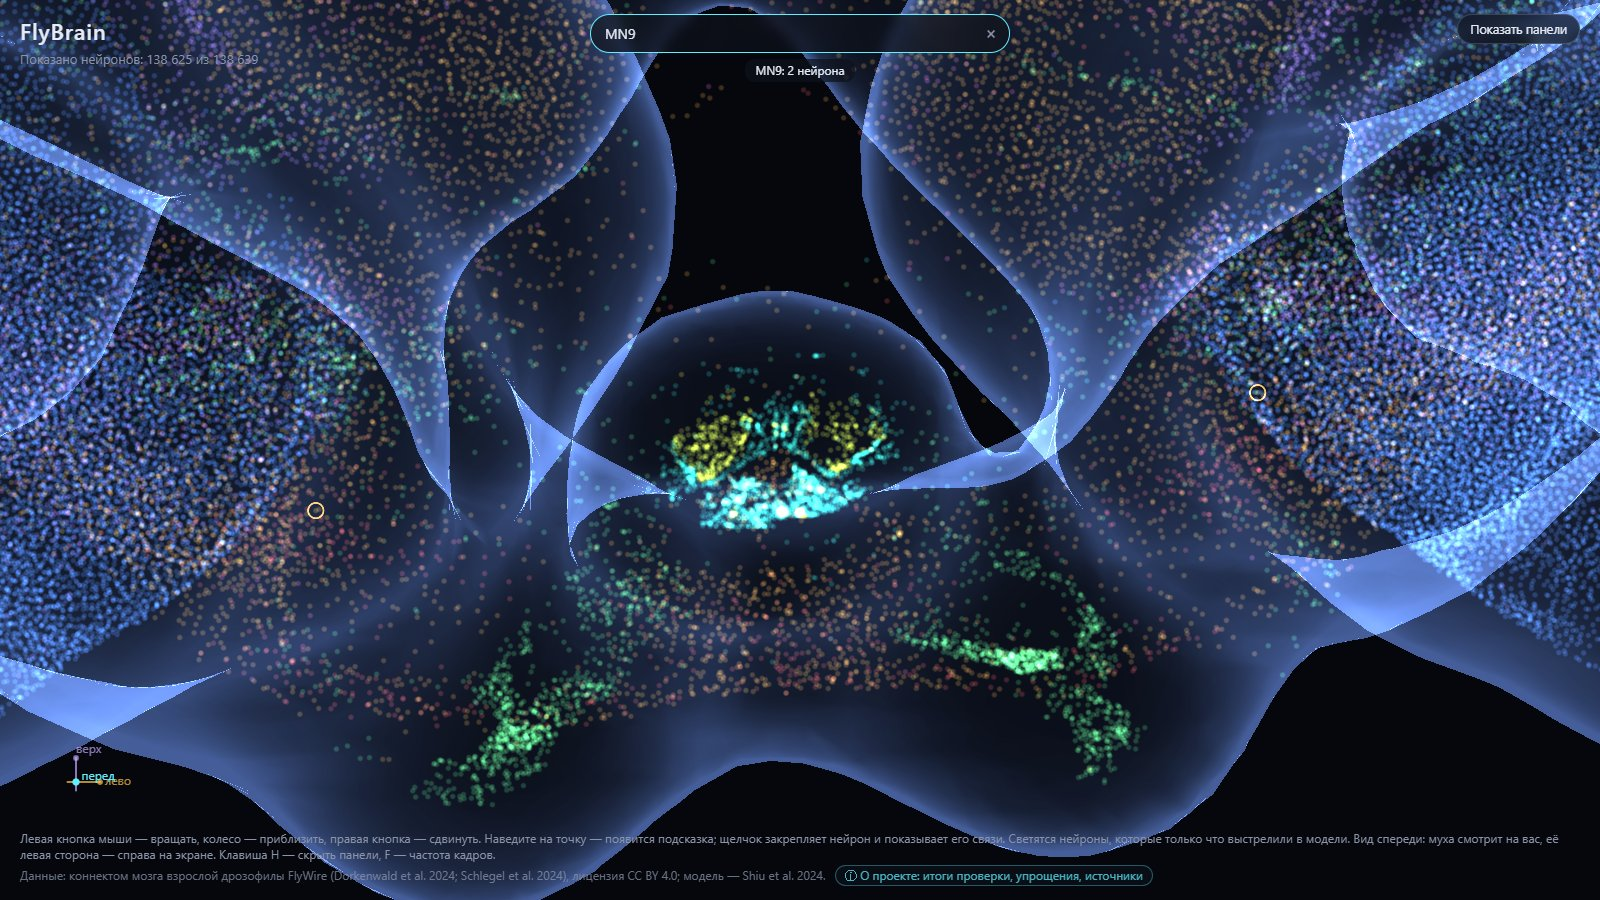
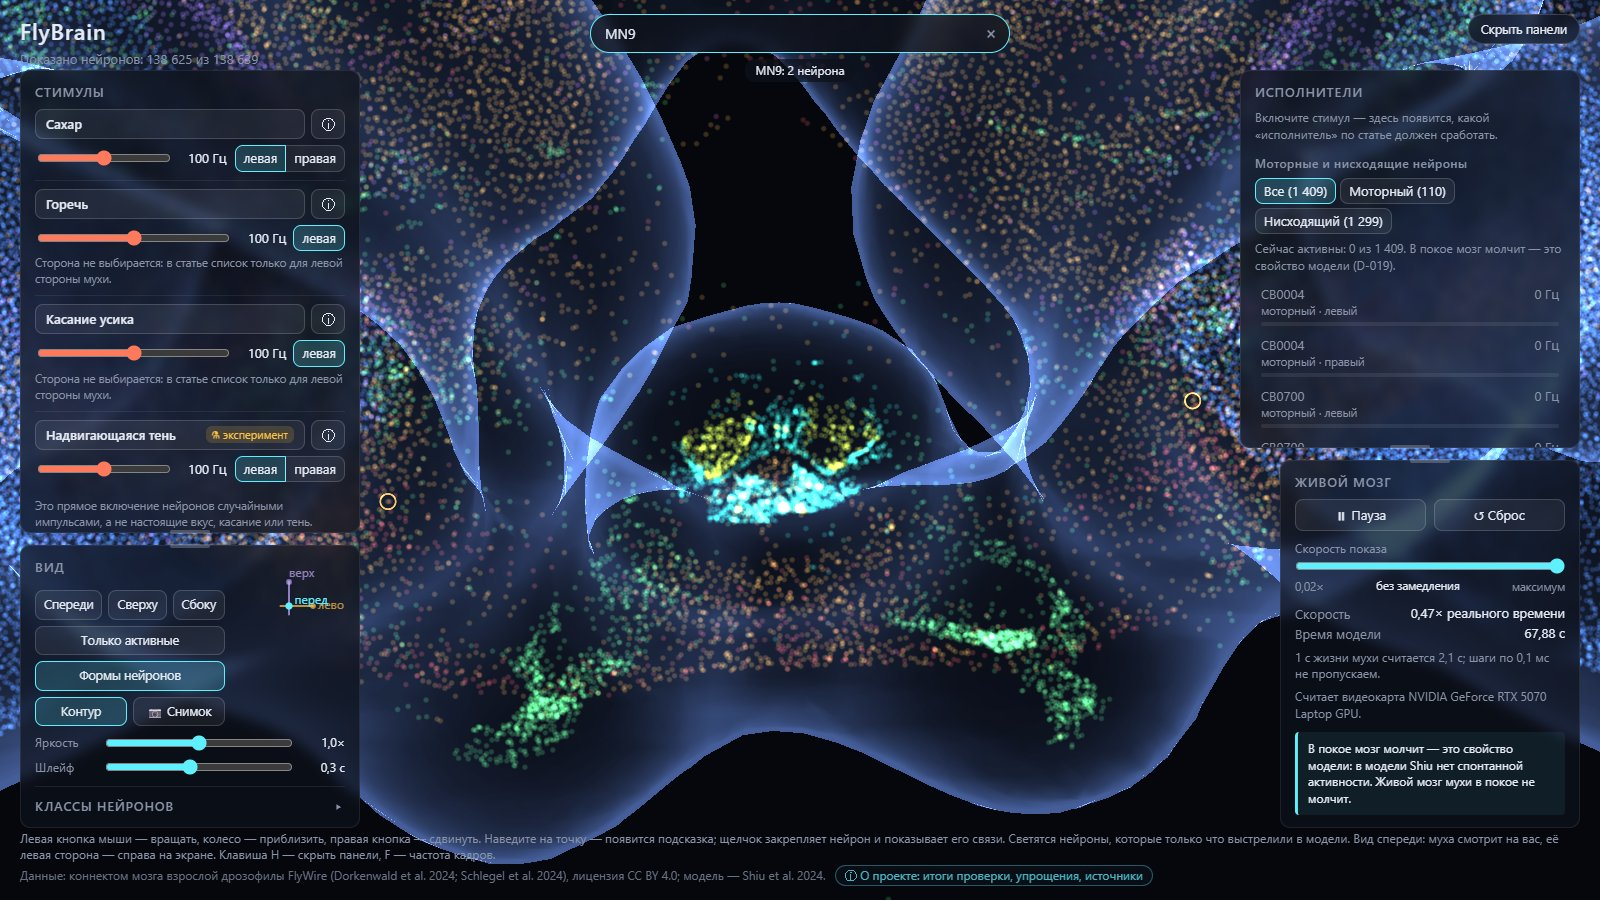
C13b: после поиска найденные нейроны не прячутся под панелями
Камера отходит настолько, чтобы все найденные нейроны попали в свободную
от панелей середину экрана (web/framing.js, проверка на Node). D-040.

diff --git a/web/framing.js b/web/framing.js
@@ -1,0 +1,49 @@
+// Куда отвести камеру, чтобы найденные нейроны были видны, а не прятались под панелями (после C13, D-040).
+// Чистая математика без three.js: проверяется на Node (tests/js/framing_check.mjs).
+
+const MARGIN_PX = 28; // отступ от края панели: кольцо поиска — 18 px
+const MIN_FREE_PX = 60; // от центра до панели свободно меньше — панели закрыли почти всё; тогда считаем по всему экрану
+const FULL_SHARE = 0.9;
+
+/**
+ * Свободная от панелей середина экрана в долях половины экрана (как координаты NDC): {x, y}.
+ * Точка с |NDC x| ≤ x и |NDC y| ≤ y не закрыта панелями. Область симметрична относительно центра экрана:
+ * камера вращается вокруг центра найденных нейронов, и он должен остаться в центре.
+ * `rects` — прямоугольники видимых панелей {left, right, top, bottom} в пикселях окна.
+ */
+export function freeArea(rects, width, height, top = 0, bottom = height) {
+  const cx = width / 2;
+  const cy = height / 2;
+  let halfX = cx;
+  for (const rect of rects) {
+    if (rect.right <= rect.left || rect.bottom <= rect.top) continue;
+    // Панель стоит слева или справа от середины. Панели высокие, поэтому любая из них сужает середину по ширине.
+    if ((rect.left + rect.right) / 2 < cx) halfX = Math.min(halfX, cx - rect.right);
+    else halfX = Math.min(halfX, rect.left - cx);
+  }
+  const halfY = Math.min(cy - top, bottom - cy);
+  const share = (half, centre) => (half - MARGIN_PX >= MIN_FREE_PX ? Math.min((half - MARGIN_PX) / centre, FULL_SHARE)
+    : FULL_SHARE);
+  return { x: share(halfX, cx), y: share(halfY, cy) };
+}
+
+const dot = (a, b) => a[0] * b[0] + a[1] * b[1] + a[2] * b[2];
+
+/**
+ * Расстояние от центра `centre` до камеры, при котором все точки `points` ([x, y, z], …) видны внутри `area`.
+ * `right`, `up`, `back` — оси камеры (единичные; `back` — от центра к камере), `tanHalfFov` — тангенс половины
+ * вертикального угла обзора, `aspect` — ширина / высота окна.
+ */
+export function fitDistance(points, centre, { right, up, back }, tanHalfFov, aspect, area) {
+  let distance = 0;
+  for (const point of points) {
+    const rel = [point[0] - centre[0], point[1] - centre[1], point[2] - centre[2]];
+    // Глубина точки от камеры = distance − rel·back; её проекция не должна выйти за свободную область.
+    const need = Math.max(
+      Math.abs(dot(rel, right)) / (tanHalfFov * aspect * area.x),
+      Math.abs(dot(rel, up)) / (tanHalfFov * area.y),
+    );
+    distance = Math.max(distance, need + dot(rel, back));
+  }
+  return distance;
+}

diff --git a/web/main.js b/web/main.js
@@ -6,6 +6,7 @@ import { createAbout } from "./about.js";
 import { HEADER_BYTES, MAX_CLASSES, NO_POSITION, POINT_SIZE_UM } from "./constants.js";
 import { createCompass } from "./compass.js";
 import { createFpsMeter } from "./fps.js";
+import { fitDistance, freeArea } from "./framing.js";
 import { createGlow } from "./glow.js";
 import { createExecutorPanel } from "./executors.js";
 import { createCard, createSearch, createTooltip, getInfo, getLinks, plural, RATE_HINT } from "./inspector.js";
@@ -477,18 +478,29 @@ function start({ meta, stimuli, executors, positions, classes }) {
     autoRotateWanted = false;
   }
 
+  // Панели, под которыми не должны оказаться найденные нейроны (D-040).
+  const framingPanels = ["stimuli", "view", "executors", "live", "card"].map((id) => document.getElementById(id));
+  const searchBox = document.getElementById("search");
+  const helpBox = document.getElementById("help");
+
   function flyToNeurons(indices) {
     const sum = [0, 0, 0];
     for (const index of indices) pointOf(index).forEach((value, axis) => { sum[axis] += value; });
     const centre = sum.map((value) => value / indices.length);
-    let spread = 0;
-    for (const index of indices) {
-      const [x, y, z] = pointOf(index);
-      spread = Math.max(spread, Math.hypot(x - centre[0], y - centre[1], z - centre[2]));
-    }
+    // Камера смотрит с той же стороны, что и сейчас, и отходит настолько, чтобы все найденные нейроны
+    // поместились в середину экрана между панелями.
+    const rects = framingPanels.filter((panel) => panel.getClientRects().length > 0)
+      .map((panel) => panel.getBoundingClientRect());
+    const area = freeArea(rects, window.innerWidth, window.innerHeight,
+      searchBox.getBoundingClientRect().bottom, helpBox.getBoundingClientRect().top);
+    const axes = { right: new THREE.Vector3(1, 0, 0), up: new THREE.Vector3(0, 1, 0), back: new THREE.Vector3(0, 0, 1) };
+    for (const axis of Object.values(axes)) axis.applyQuaternion(camera.quaternion);
+    const basis = Object.fromEntries(Object.entries(axes).map(([name, axis]) => [name, axis.toArray()]));
+    const tanHalfFov = Math.tan(THREE.MathUtils.degToRad(camera.fov / 2));
+    const distance = fitDistance(indices.map(pointOf), centre, basis, tanHalfFov, camera.aspect, area);
     startFlight({
       target: new THREE.Vector3(...centre).add(offset),
-      distance: Math.min(Math.max(spread * 2.6, 70), controls.maxDistance),
+      distance: Math.min(Math.max(distance, 70), controls.maxDistance),
     });
   }
 

diff --git a/tests/test_shell.py b/tests/test_shell.py
@@ -51,3 +51,11 @@ def test_every_element_the_scripts_look_up_exists_on_the_page():
             if name not in ids:
                 missing.append(f"{script.name}: {name}")
     assert not missing, f"в index.html нет элементов: {missing}"
+
+
+@needs_node
+def test_found_neurons_fit_between_panels():
+    # После поиска камера отходит так, чтобы найденные нейроны не оказались под боковыми панелями (D-040).
+    check = PROJECT_ROOT / "tests" / "js" / "framing_check.mjs"
+    result = subprocess.run(["node", str(check)], capture_output=True, text=True, encoding="utf-8", timeout=60)
+    assert result.returncode == 0, result.stdout + result.stderr

diff --git a/docs/DECISIONS.md b/docs/DECISIONS.md
@@ -824,9 +824,28 @@
 **Что показала проверка (21.10.2026).**
 - `flybrain validate --rerun` пересчитал движок во всех 15 условиях заново за 23 минуты; `docs/VALIDATION.md` совпал с прежним байт в байт (зёрна случайных чисел записаны, D-031). Итог прежний: А — 15 из 15; Б1, Б2, Б3, Б5, Б7, Д1, Д2 — да в эталоне и движке; Б4 — нет в обоих; Б6 — на границе у эталона, да у движка; В — оба гигантских волокна включаются, левое сильнее.
 - Окно «О проекте» во встроенном браузере и в Edge показывает те же отметки, ссылки на отчёт, инструкцию и журнал решений открываются; графики отчёта загружаются.
-- Попутно замечено (не исправлялось, это поведение C8): после поиска «MN9» два найденных нейрона оказываются у краёв экрана, и при открытых панелях их кольца могут быть закрыты боковыми панелями. Снимок поиска в инструкции сделан со спрятанными панелями, и это там написано.
+- Попутно замечено: после поиска «MN9» два найденных нейрона оказываются у краёв экрана, под боковыми панелями. Исправлено следующим шагом (D-040).
 
 **Следствия.**
 - Новая зависимость `markdown-it-py` (вместе с ней `mdurl`); `uv sync` её поставит.
 - `docs/validation/summary.json` хранится в git рядом с картинками отчёта и, как и они, пишется только командой `validate`.
 - Модель, движок и пороги проверки не менялись.
+
+## D-040. После поиска найденные нейроны не прячутся под панелями
+*21.10.2026, после C13 — по просьбе пользователя*
+
+**Решение.**
+- Раньше камера после поиска отходила от центра найденных нейронов на «разброс × 2,6» (не ближе 70 мкм). Для пары нейронов, стоящих по разные стороны мозга (MN9, GF), это ставило их почти к краям экрана — под панели стимулов и исполнителей.
+- Теперь (`web/framing.js`) страница сначала находит **свободную середину экрана**: от центра до ближайшей видимой боковой панели (стимулы, «Вид», исполнители, живой мозг, карточка нейрона) по ширине, от строки поиска до подсказки внизу по высоте, с отступом 28 px (кольцо поиска — 18 px). Затем камера, глядя с той же стороны, что и раньше, отходит ровно настолько, чтобы каждый найденный нейрон попал в эту середину (учитывается и глубина каждой точки). Центр вращения остаётся в центре найденных нейронов. Не ближе 70 мкм и не дальше предела отдаления — как раньше.
+- Если панели закрыли почти всё (до панели меньше 60 px от центра), середина считается по всему экрану. На узких окнах панели и так сначала скрыты (D-036).
+- Щелчок по нейрону в панели исполнителей и в карточке (один нейрон) работает как раньше: один нейрон и так оказывается в центре.
+
+**Почему.** Пользователь искал нейрон и не видел его: кольца были под панелями.
+
+**Альтернативы.**
+- Сдвигать картинку так, чтобы нейроны стояли в середине свободной области, а не экрана (`setViewOffset` у камеры). Отвергнуто: панели слева и справа примерно одинаковые, а сдвиг проекции задел бы выбор точки мышью и свечение.
+- Прятать панели на время поиска. Отвергнуто: пропадают стимулы и исполнители, ради которых ищут.
+
+**Что показала проверка (21.10.2026).** Тест на Node (`tests/js/framing_check.mjs`, запускается из `pytest`): расчёт свободной середины, расстояние для пары точек, 200 случайных точек — все внутри. Во встроенном браузере (окно 1024×768, панели открыты): MN9, GF, aDN1, LPLC2 (210 нейронов), CB0700, DNa02 — ни один найденный нейрон не под панелью и не за краем экрана; например, у GF камера отходит на 819 мкм, точки — на 393 и 636 px при свободной середине 388–636 px. В Edge при 1600×900 (снимок `docs/guide/03_search_mn9.jpg`) оба кольца MN9 видны между панелями.
+
+**Следствия.** Модель, сервер и данные не менялись — только показ. После поиска камера бывает дальше от мозга, чем раньше: так нужно, чтобы найденное поместилось.

diff --git a/docs/USER_GUIDE.md b/docs/USER_GUIDE.md
@@ -111,9 +111,9 @@ uv run flybrain serve
 
 ## 6. Поиск и один нейрон
 
-Наберите в поиске `MN9` и нажмите Enter: камера подлетает к двум найденным нейронам (левому и правому), они обведены маленькими жёлтыми кольцами. На снимке ниже панели спрятаны клавишей H: в обычном виде кольца у краёв экрана могут оказаться под боковыми панелями. Можно искать по русскому имени («гигантское волокно») или по типу FlyWire (`LPLC2`, `DNp01`).
+Наберите в поиске `MN9` и нажмите Enter: камера подлетает к двум найденным нейронам (левому и правому), они обведены маленькими жёлтыми кольцами. Камера отходит настолько, чтобы все найденные нейроны поместились в середину экрана между панелями. Можно искать по русскому имени («гигантское волокно») или по типу FlyWire (`LPLC2`, `DNp01`).
 
-![Поиск MN9: два жёлтых кольца — левый и правый MN9 (панели спрятаны клавишей H)](guide/03_search_mn9.jpg)
+![Поиск MN9: два жёлтых кольца — левый и правый MN9, между панелями](guide/03_search_mn9.jpg)
 
 Наведите мышь на точку — появится подсказка: имя, класс, сторона, медиатор и знак в модели («возбуждает» или «тормозит»), номер FlyWire и текущая частота. Щёлкните — нейрон закрепится: справа появится карточка с его самыми сильными входами и выходами, а в облаке — линии к ним. Щелчок по имени в карточке переводит к этому соседу.
 
